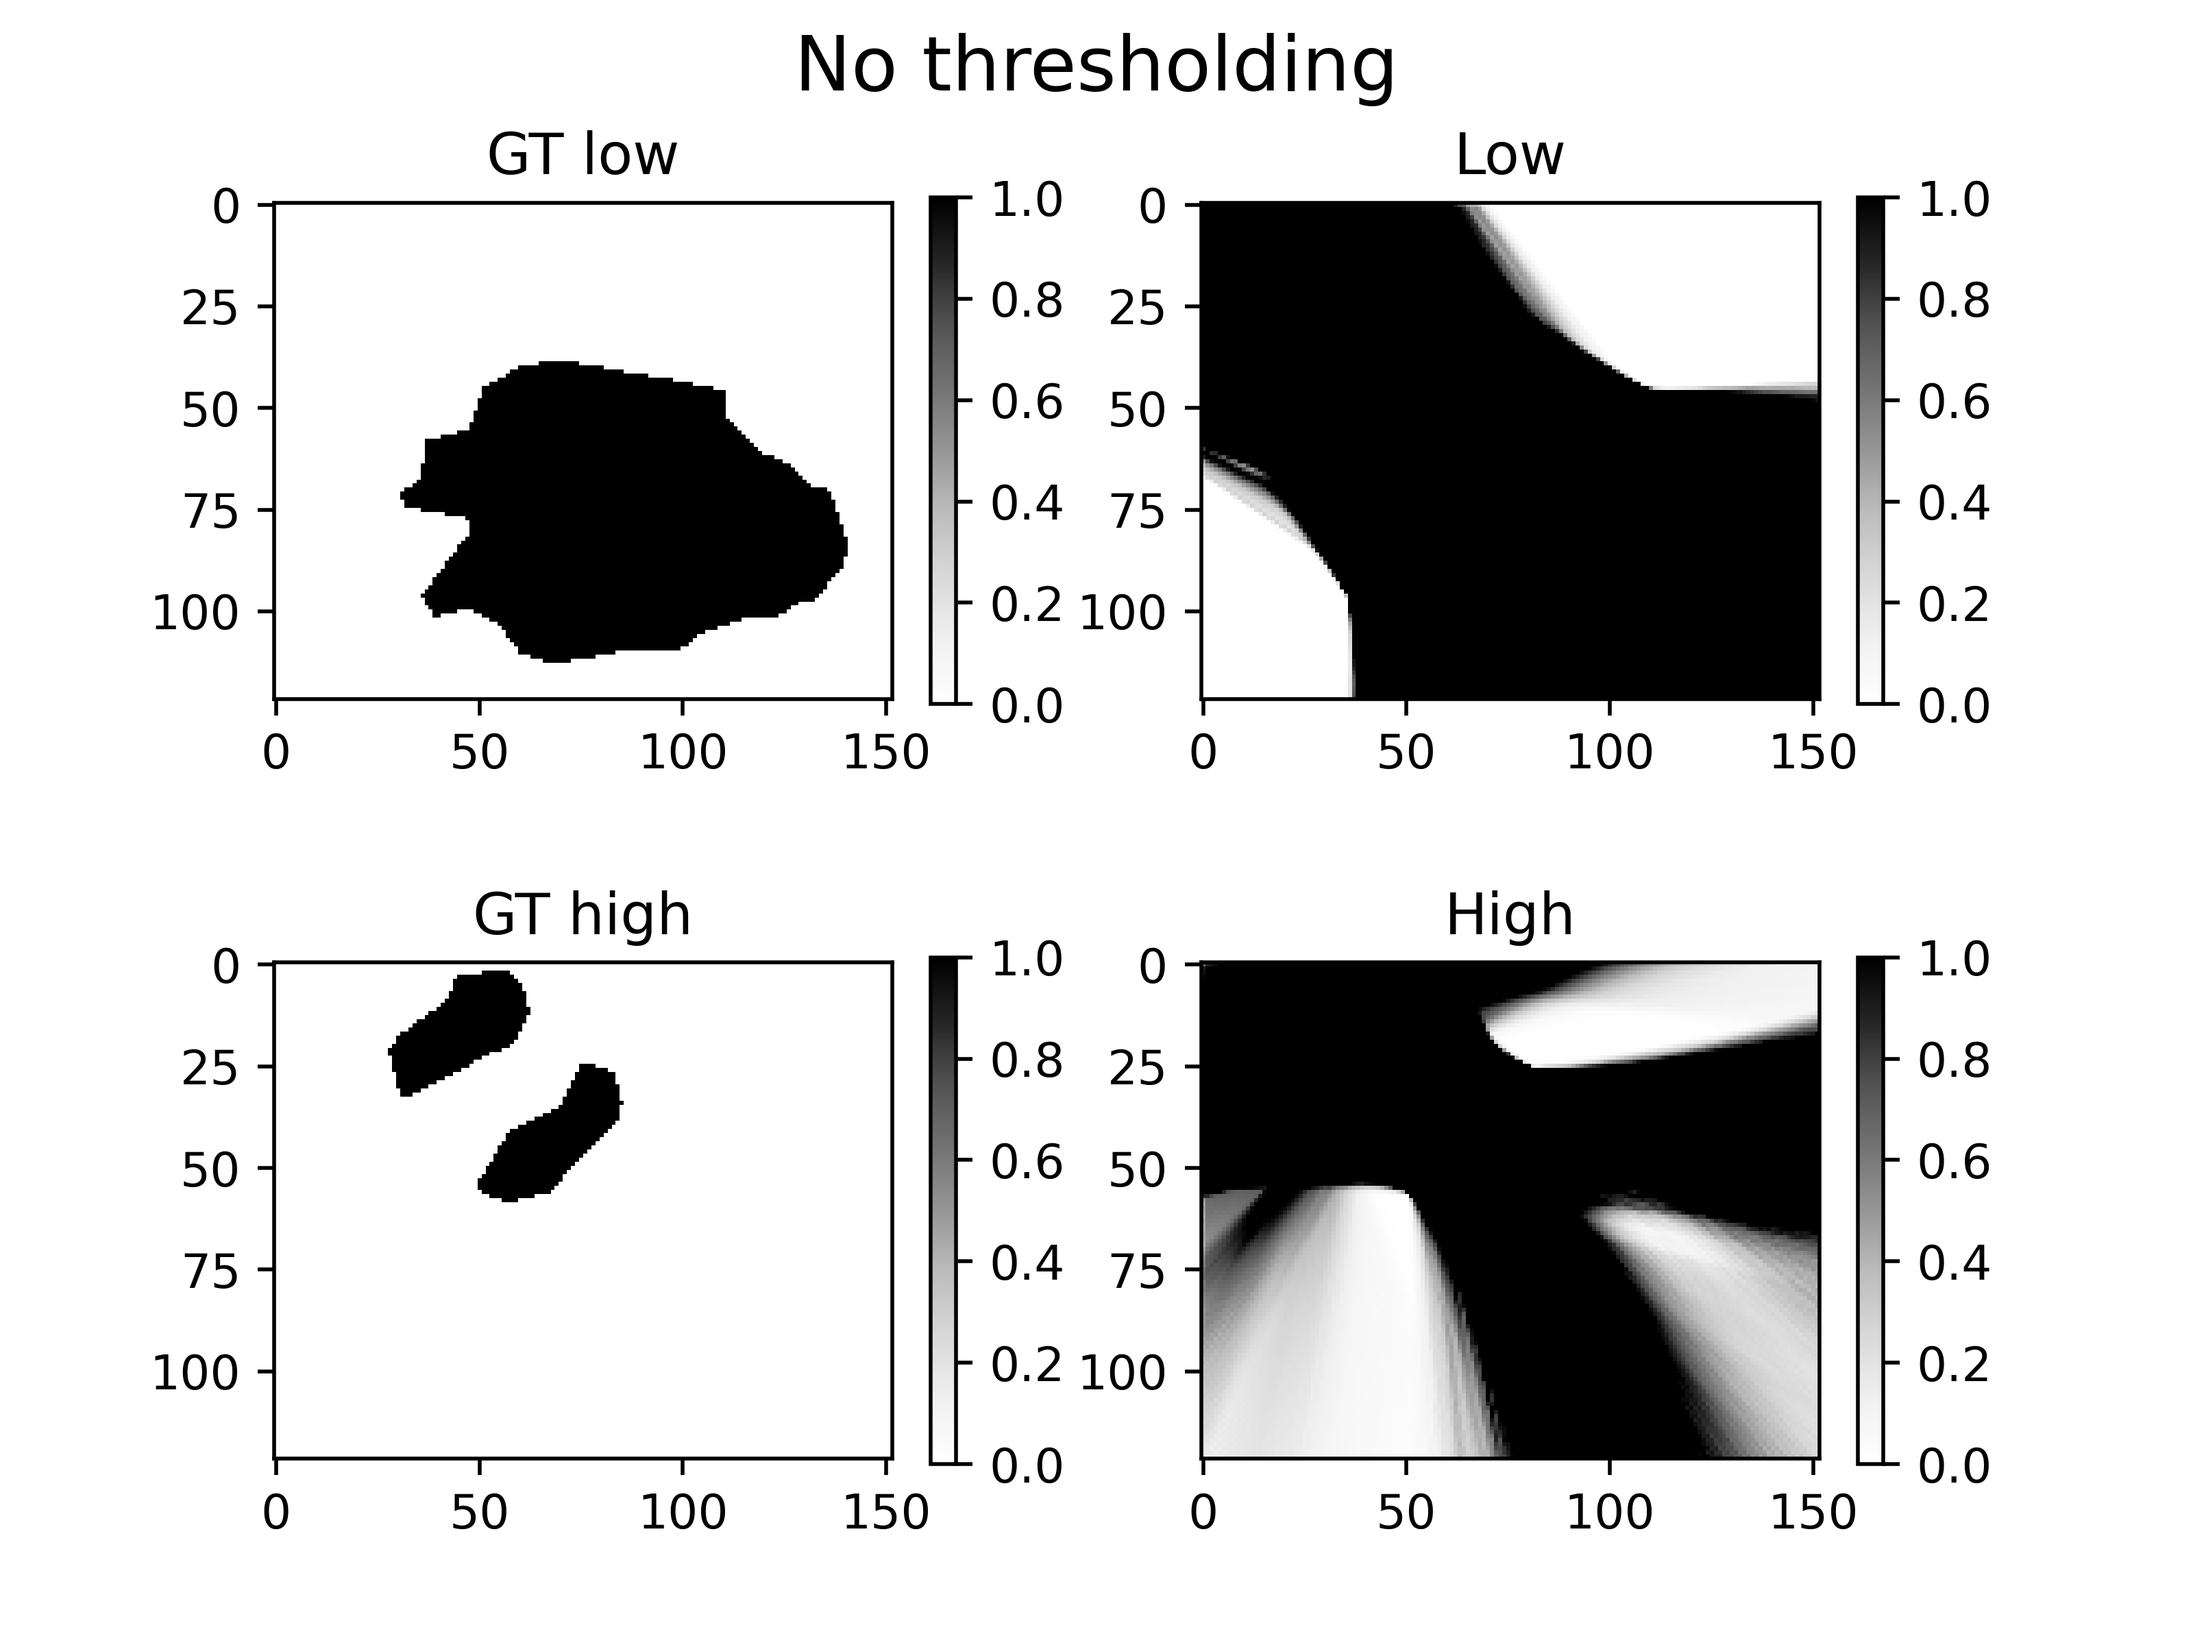
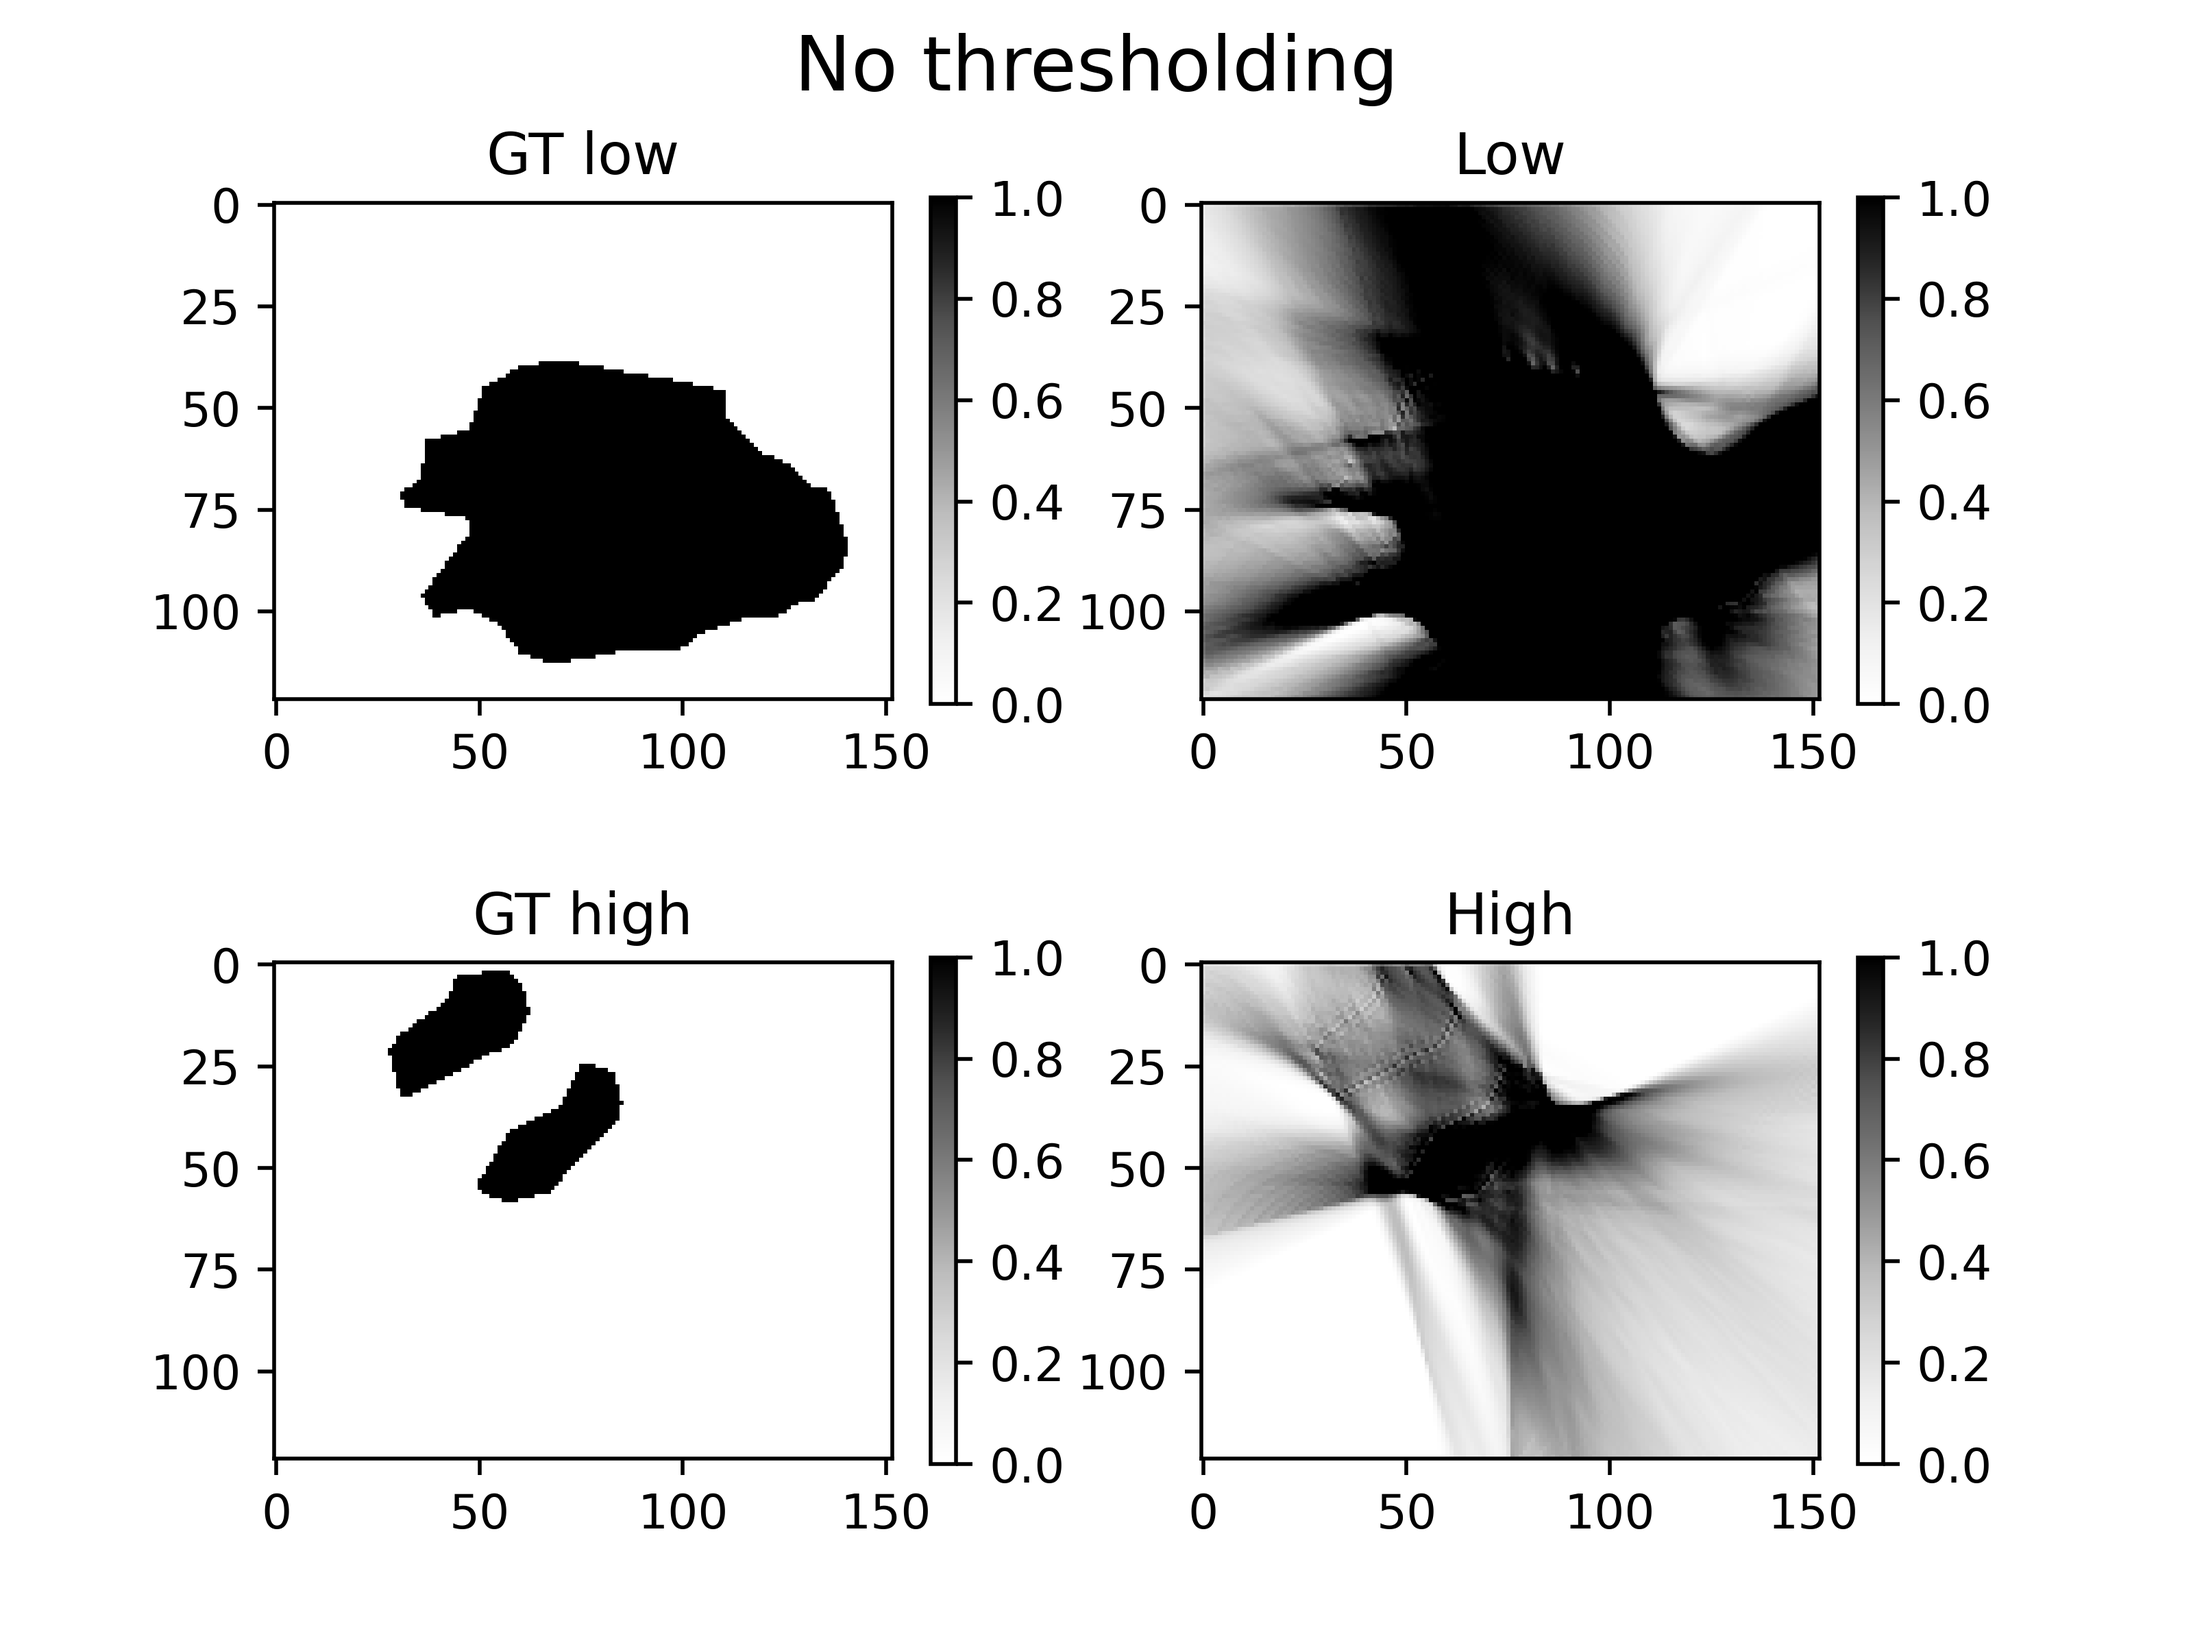
[xray] correct refraction use

diff --git a/src/pyxu/experimental/xray/2dtests/bunny_bhatt_multiple_runs_method/bunny_bhatt_multipruns.py b/src/pyxu/experimental/xray/2dtests/bunny_bhatt_multiple_runs_method/bunny_bhatt_multipruns.py
@@ -209,6 +209,8 @@ if refraction:
     n_spec = normalize(n_spec.reshape(-1, 3)[:, :2])
     t_spec = t_spec.reshape(-1, 3)[:, :2]
 
+    t_spec += pitch * side / 2
+
 unweighted_xrt = xray.RayXRT(
     dim_shape=ground_truth[0].shape,
     origin=origin,
@@ -216,6 +218,9 @@ unweighted_xrt = xray.RayXRT(
     n_spec=n_spec.reshape(-1, 2),
     t_spec=t_spec.reshape(-1, 2),
 )
+
+fig = unweighted_xrt.diagnostic_plot()
+fig.savefig("./diag.png")
 
 lcav_low = ReconstructionTechnique(
     ground_truth=ground_truth[0],
